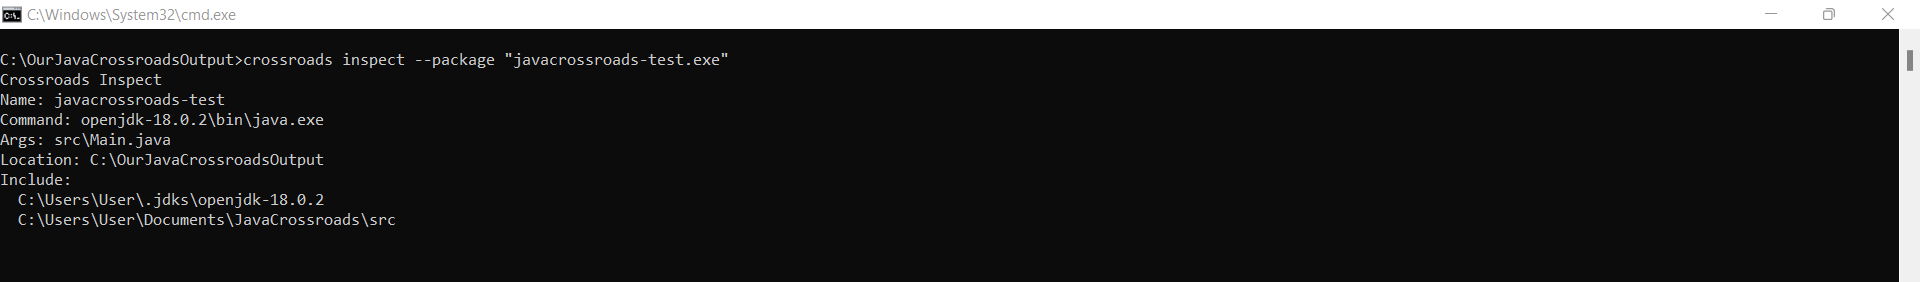
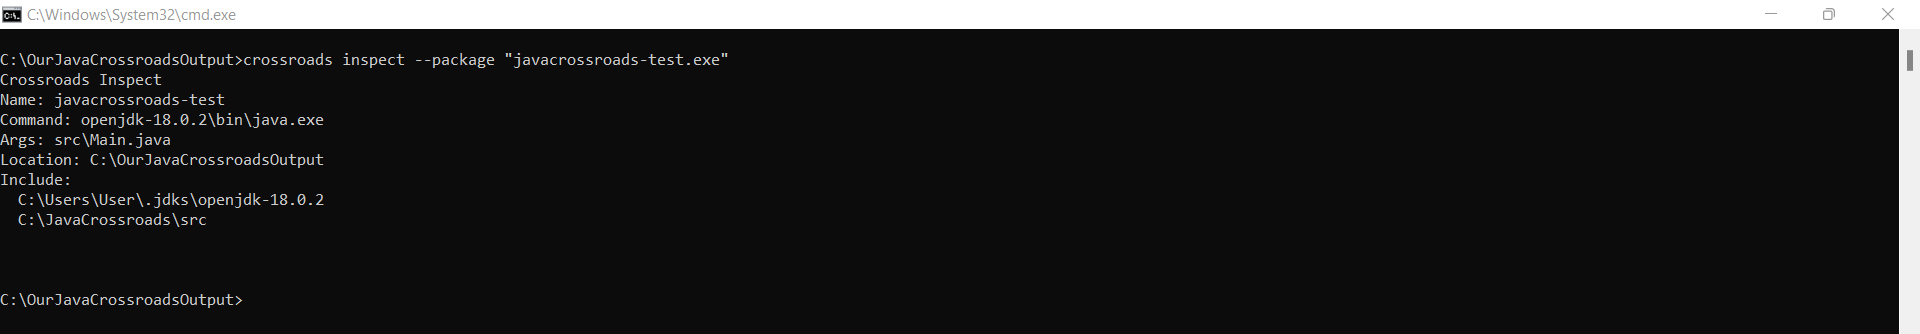
update test_case_b

diff --git a/dco/test_case_b.md b/dco/test_case_b.md
@@ -1,0 +1,117 @@
+# Tutorial - Package a java console application using the Crossroads tool packager
+
+This tutorial teaches you how to use the crossroads tool packager which is built with the .net framework to package another application built with a different framework eg. java. For the purpose of this tutorial we will be using a simple java application called javacrossroads that displays a "Hello world!" message. The <code>crossroads </code> tool will generate a self-contained executable, making sure that others can install and run our package without having to install any dependencies. The <code>crossroads</code> tool is a NuGet package that is installed from the .NET CLI.
+
+## Pre-requisites
+<li>.Net SDK  3.1.0 or later version</li>
+This tutorial uses .NET SDK 3.1, but global tools are available starting in .NET Core SDK 2.1. Local tools are available starting in NET Core SDK 3.0.
+<li>Java 18 or later version</li>
+<li>Any java console application</li>
+<br>
+
+## Usage
+``` dotnet tool install --global MorganStanley.Crossroads --version 1.0.0 ```
+
+The above command installs the crossroads as a global tool. This will enable you to run the tool from anywhere on your machine.
+
+## Testing our console application
+
+First,let's see the output of the javacrossroads console application:
+
+<br>
+<img alt="#" src =".\assets\java_output.png">
+<br>
+
+let's see the current folder structure of the JavaCrossroads console application
+
+<img alt="#" src=".\assets\javafolder_structure.png">
+
+## Packaging our console application
+We now head straight to packaging our application and generating the single executable
+
+## Command to package the JavaCrossroads console application
+
+```crossroads package --name javacrossroads-test --command "openjdk-18.0.2\bin\java.exe" --location "C:\OurJavaCrossroadsOutput"  --include "C:\Users\User\.jdks\openjdk-18.0.2" --include "C:\JavaCrossroads\src"  --args "src\Main.java"```
+
+<img alt="#" src=".\assets\package_success.png">
+
+Now let's take a look into what each command represents:
+
+<hr>
+<code>crossroads</code> is the tool that we installed globally at the beginning of this tutorial and that is the base command we'll use whenever we want to use crossroads to package an application.
+
+<code>package</code> is a sub-command on the crossroads tool. The package sub-command is used to create an executable package. Upon successfully packaging the console application this should generate an executable with a given name, `javacrossroads-test` in our case.
+We can see a list of commands and options on the crossroads tool by typing `crossroads -h` or just `crossroads`.
+
+`--name or -n`:this command allows us to specify a name for the executable that will be generated.
+
+`--include`: Include internal resource application to be packaged.
+The --include command can be used multiple times especially in scenarios where the dependencies needed to run the framework plus the project files are found in two separate file locations.
+This can be seen in this instance where we need all the dependencies in the jdk folder inorder to run our application as well as the path to the main class.
+
+`--command`:This command can have the alias `-c ` option on the crossroads tool. It allows us to specify the command to run the internal application, which in our case is the `java.exe` executable.
+
+`--location`: This option allows us to set the output file location of the package.
+
+These are just a few of the options we have on the crossroads tool. There are others available for customizing your app with an icon, default args, etc.
+
+## Help Pages for <code>crossroads -h</code> and <code>crossroads package -h</code> respectively <br>
+
+<img alt ="#" src =".\assets\crossroads_help_result.png"> <br>
+
+The above shows the different commands and options on the `crossroads` tool.
+
+<br>
+<img alt ="#" src =".\assets\package_help_result.png">
+
+This above image also shows the help page for the <code>package</code> sub-command of the crossroads tool. We can actually do the same for the other sub-commands on the crossroads tool. <br>
+<br>
+
+# Result 
+
+After successfully packaging an application, we get success feedback, otherwise the necessary error message.
+
+<img alt ="#" src = ".\assets\package_success.png"> <br>
+
+Our custom location which has the packaged application <br>
+
+<img alt = "#" src =".\assets\package_output.png"> <br>
+
+## Launching the application
+Having packaged javacrossroads, let's try running the created executable by navigating to the output directory and running the command below:
+
+```.\javacrossroads-test.exe```  <br>
+
+Below is the expected output: <br>
+
+<img alt = "#" src = ".\assets\test-javacrossroads.png">
+<br>
+Voila! There we have it! Same behavior from the original console application.
+
+## Package Inspection
+
+To see the metadata and or additional information in our packaged application, run the command below:
+
+```crossroads inspect --package "javacrossroads-test.exe"```
+<br><br>
+And the corresponding output below: <br><br>
+<img alt = "#" src = ".\assets\javacrossroads-inspect.png">
+
+## Testing our console application
+
+Having packaged our java console app, let's try running the created executable on a different machine which does not have java installed to verify whether the executable created is self-contained or not.
+ First we verify if java has been installed locally by running the ```java``` command then we run:
+
+```.\javacrossroads-test.exe``` 
+
+The result is seen below:
+
+<img alt = "#" src = ".\assets\selfcontained_java.png">.
+
+## Conclusion.
+ From the image above, it can be deduced that eventhough java is not installed locally we have been able to successfully launch the javacrossroads application which has displayed the "Hello world!" message as expected.
+
+
+
+
+
